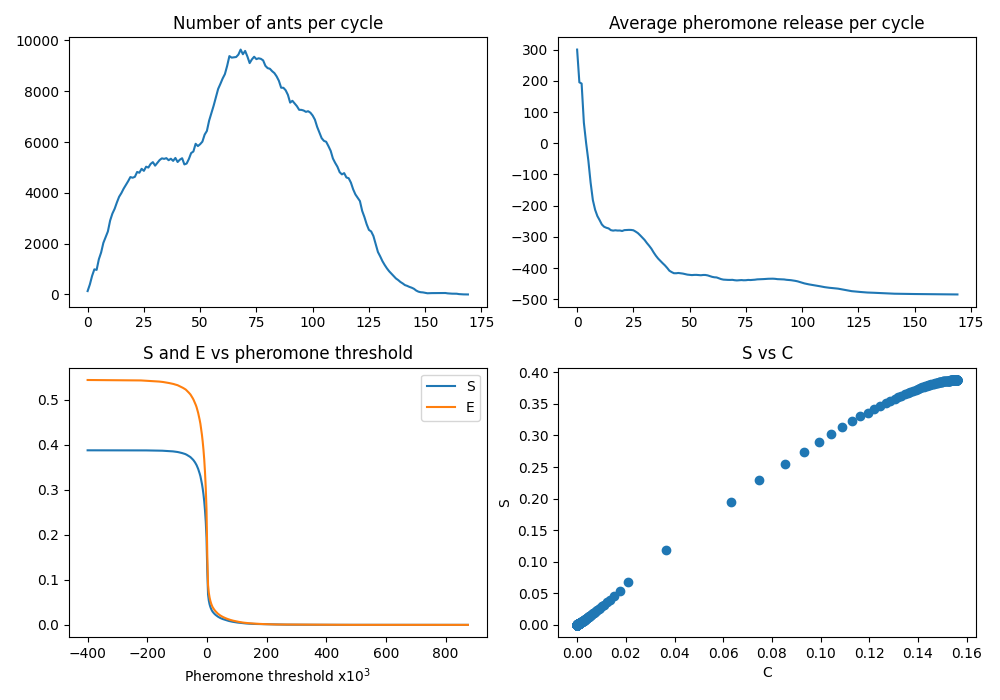
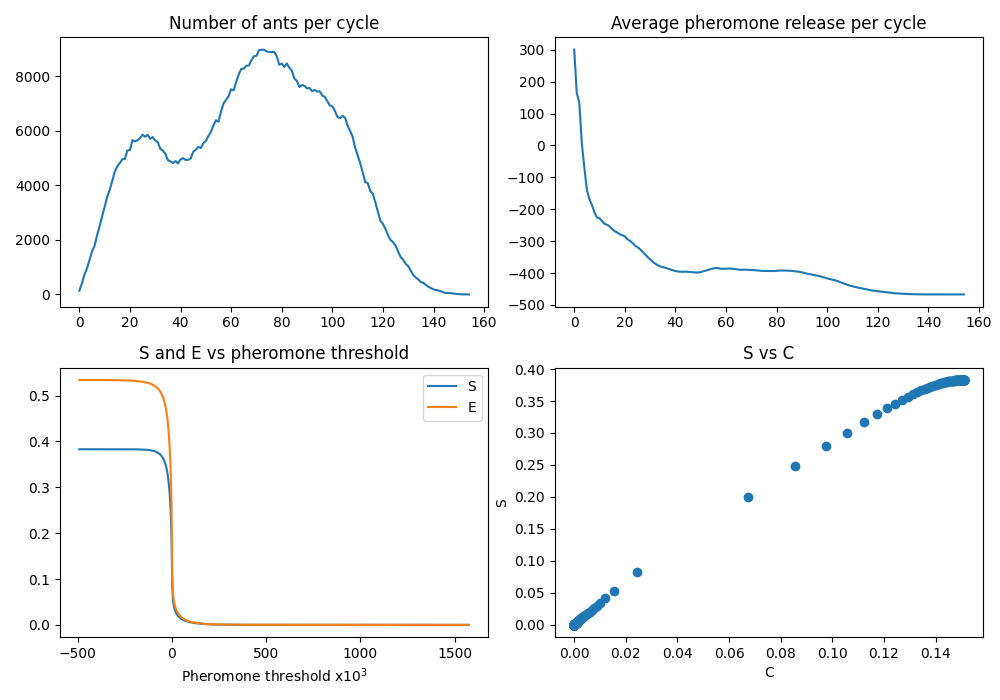
updated assets

diff --git a/src/main.py b/src/main.py
@@ -502,8 +502,8 @@ if __name__ == "__main__":
     np.copyto(pheromone_map, pheromone_map_init)
 
     n_iteration = 0
-    energy_death = 1.
-    energy_reproduction = 1.3
+    energy_death = 0.3
+    energy_reproduction = 1.25
     ant_number = []
     pheromone_mean_sum = 0
     pheromone_mean_array = []
